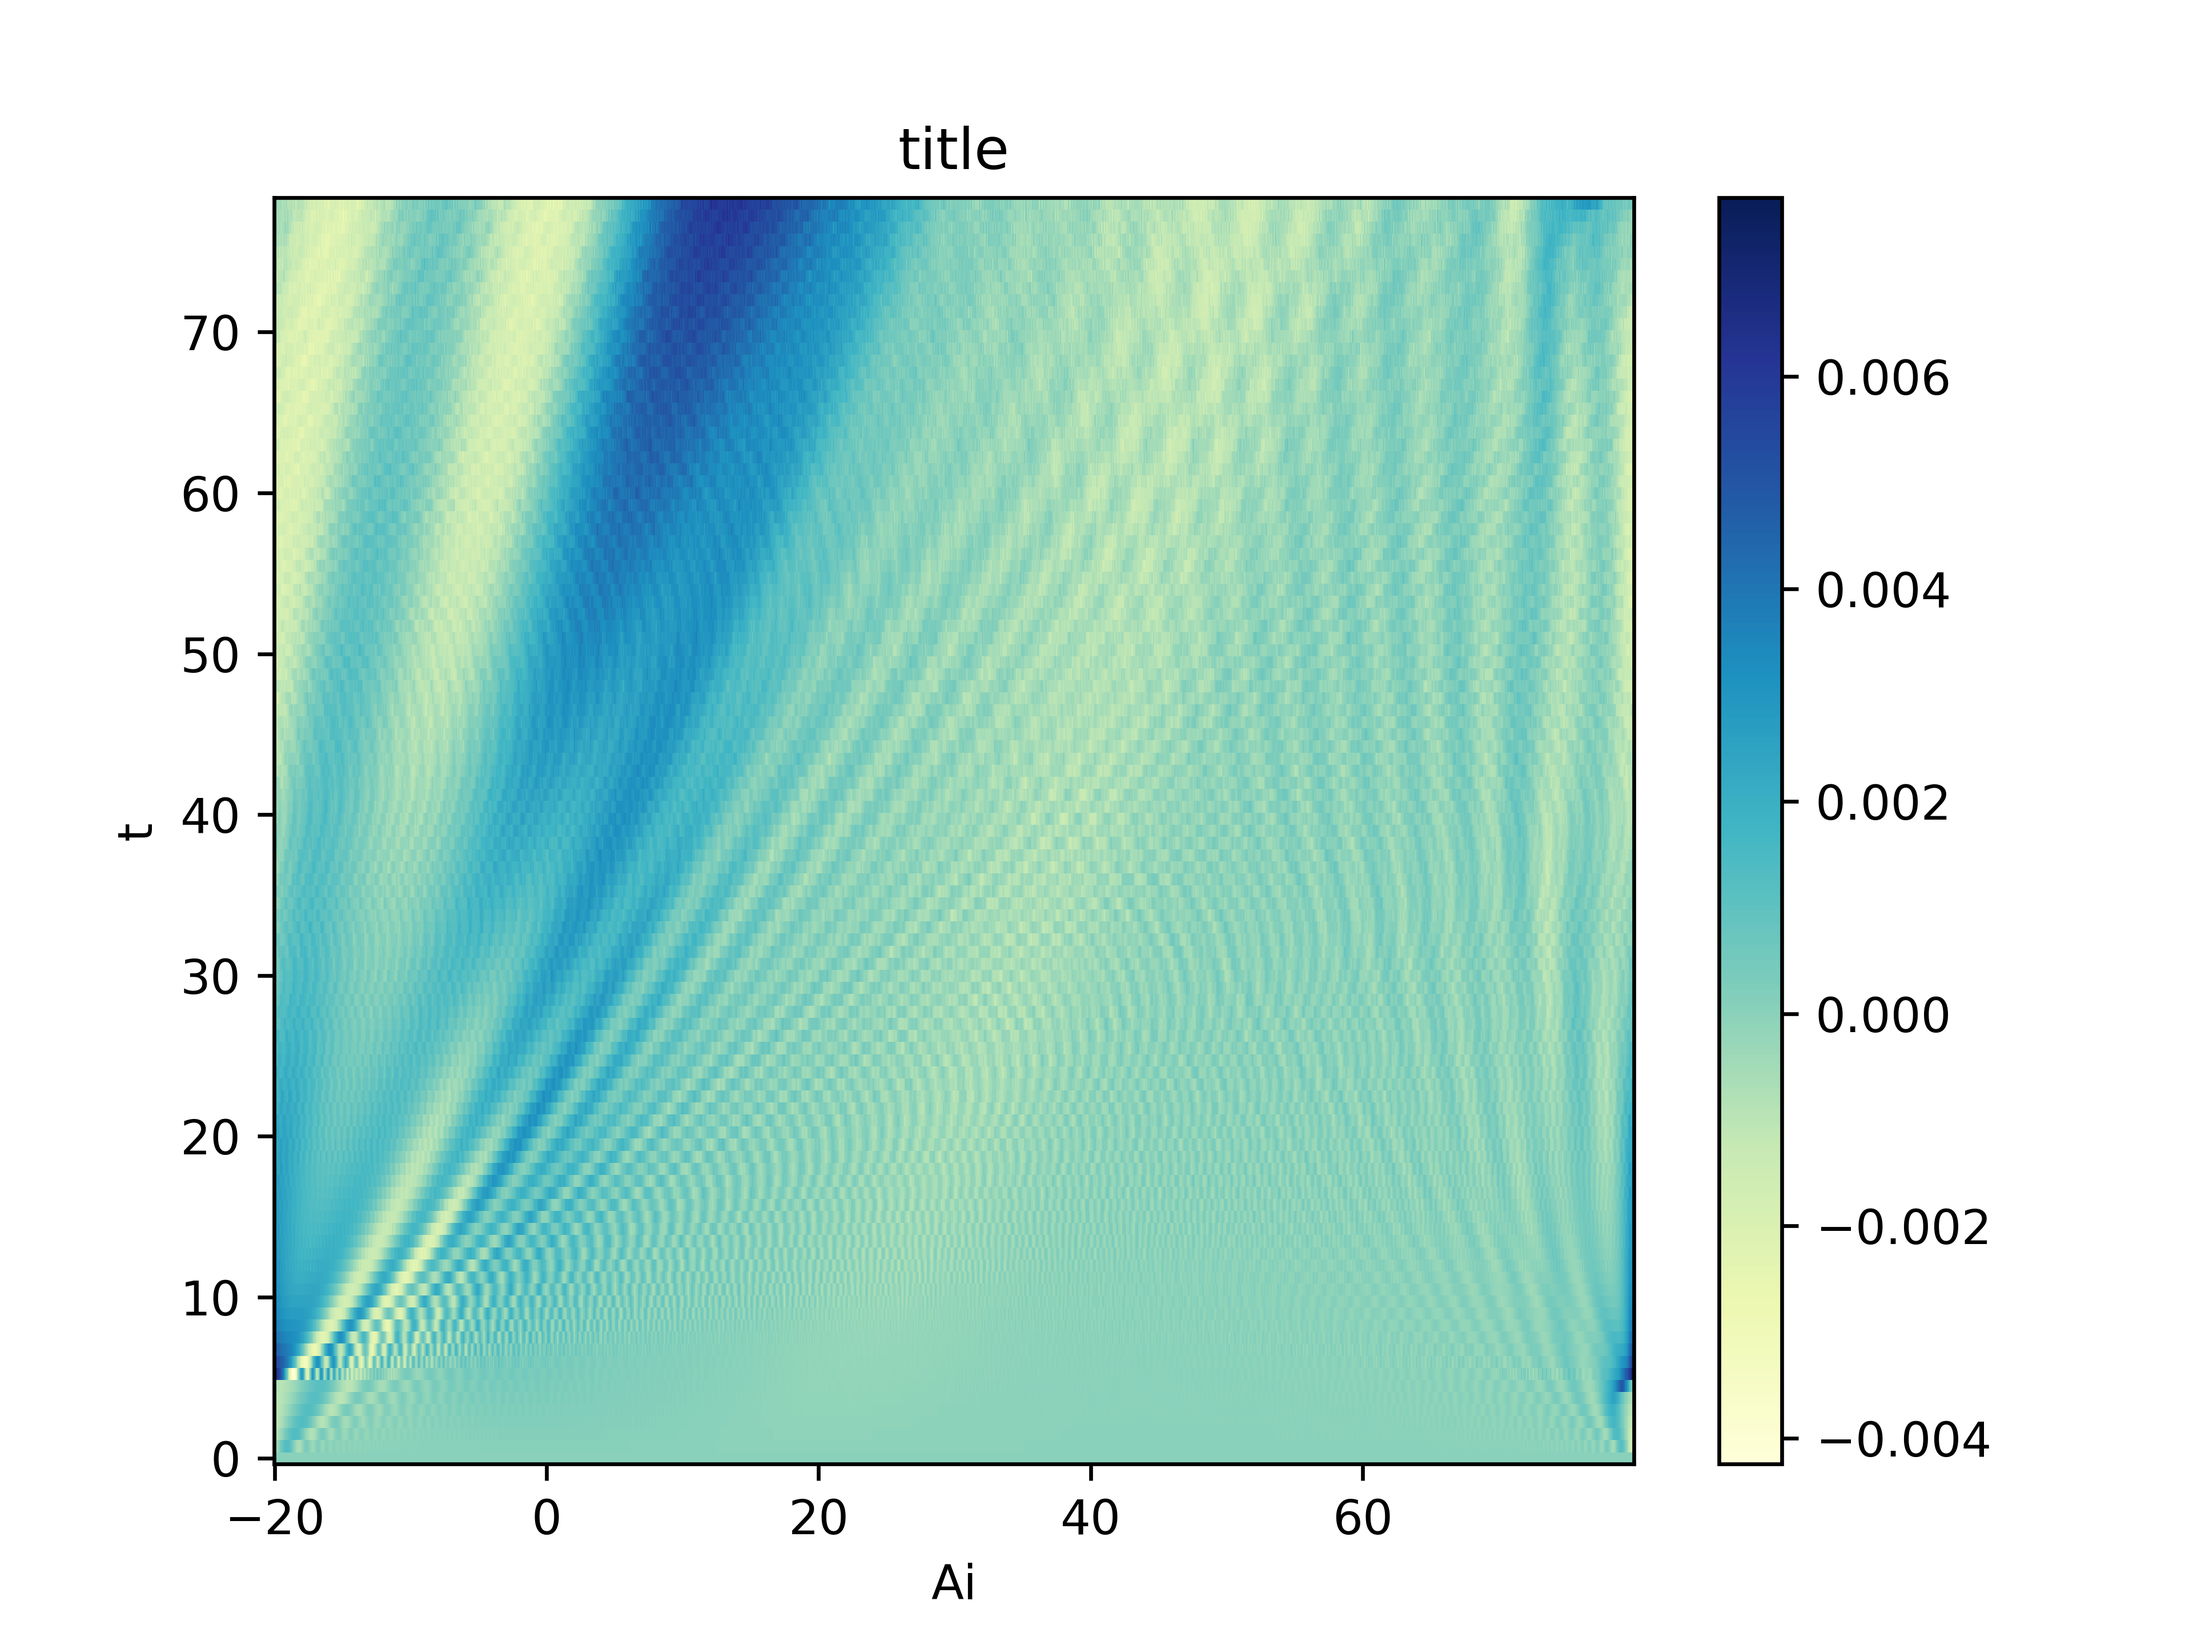
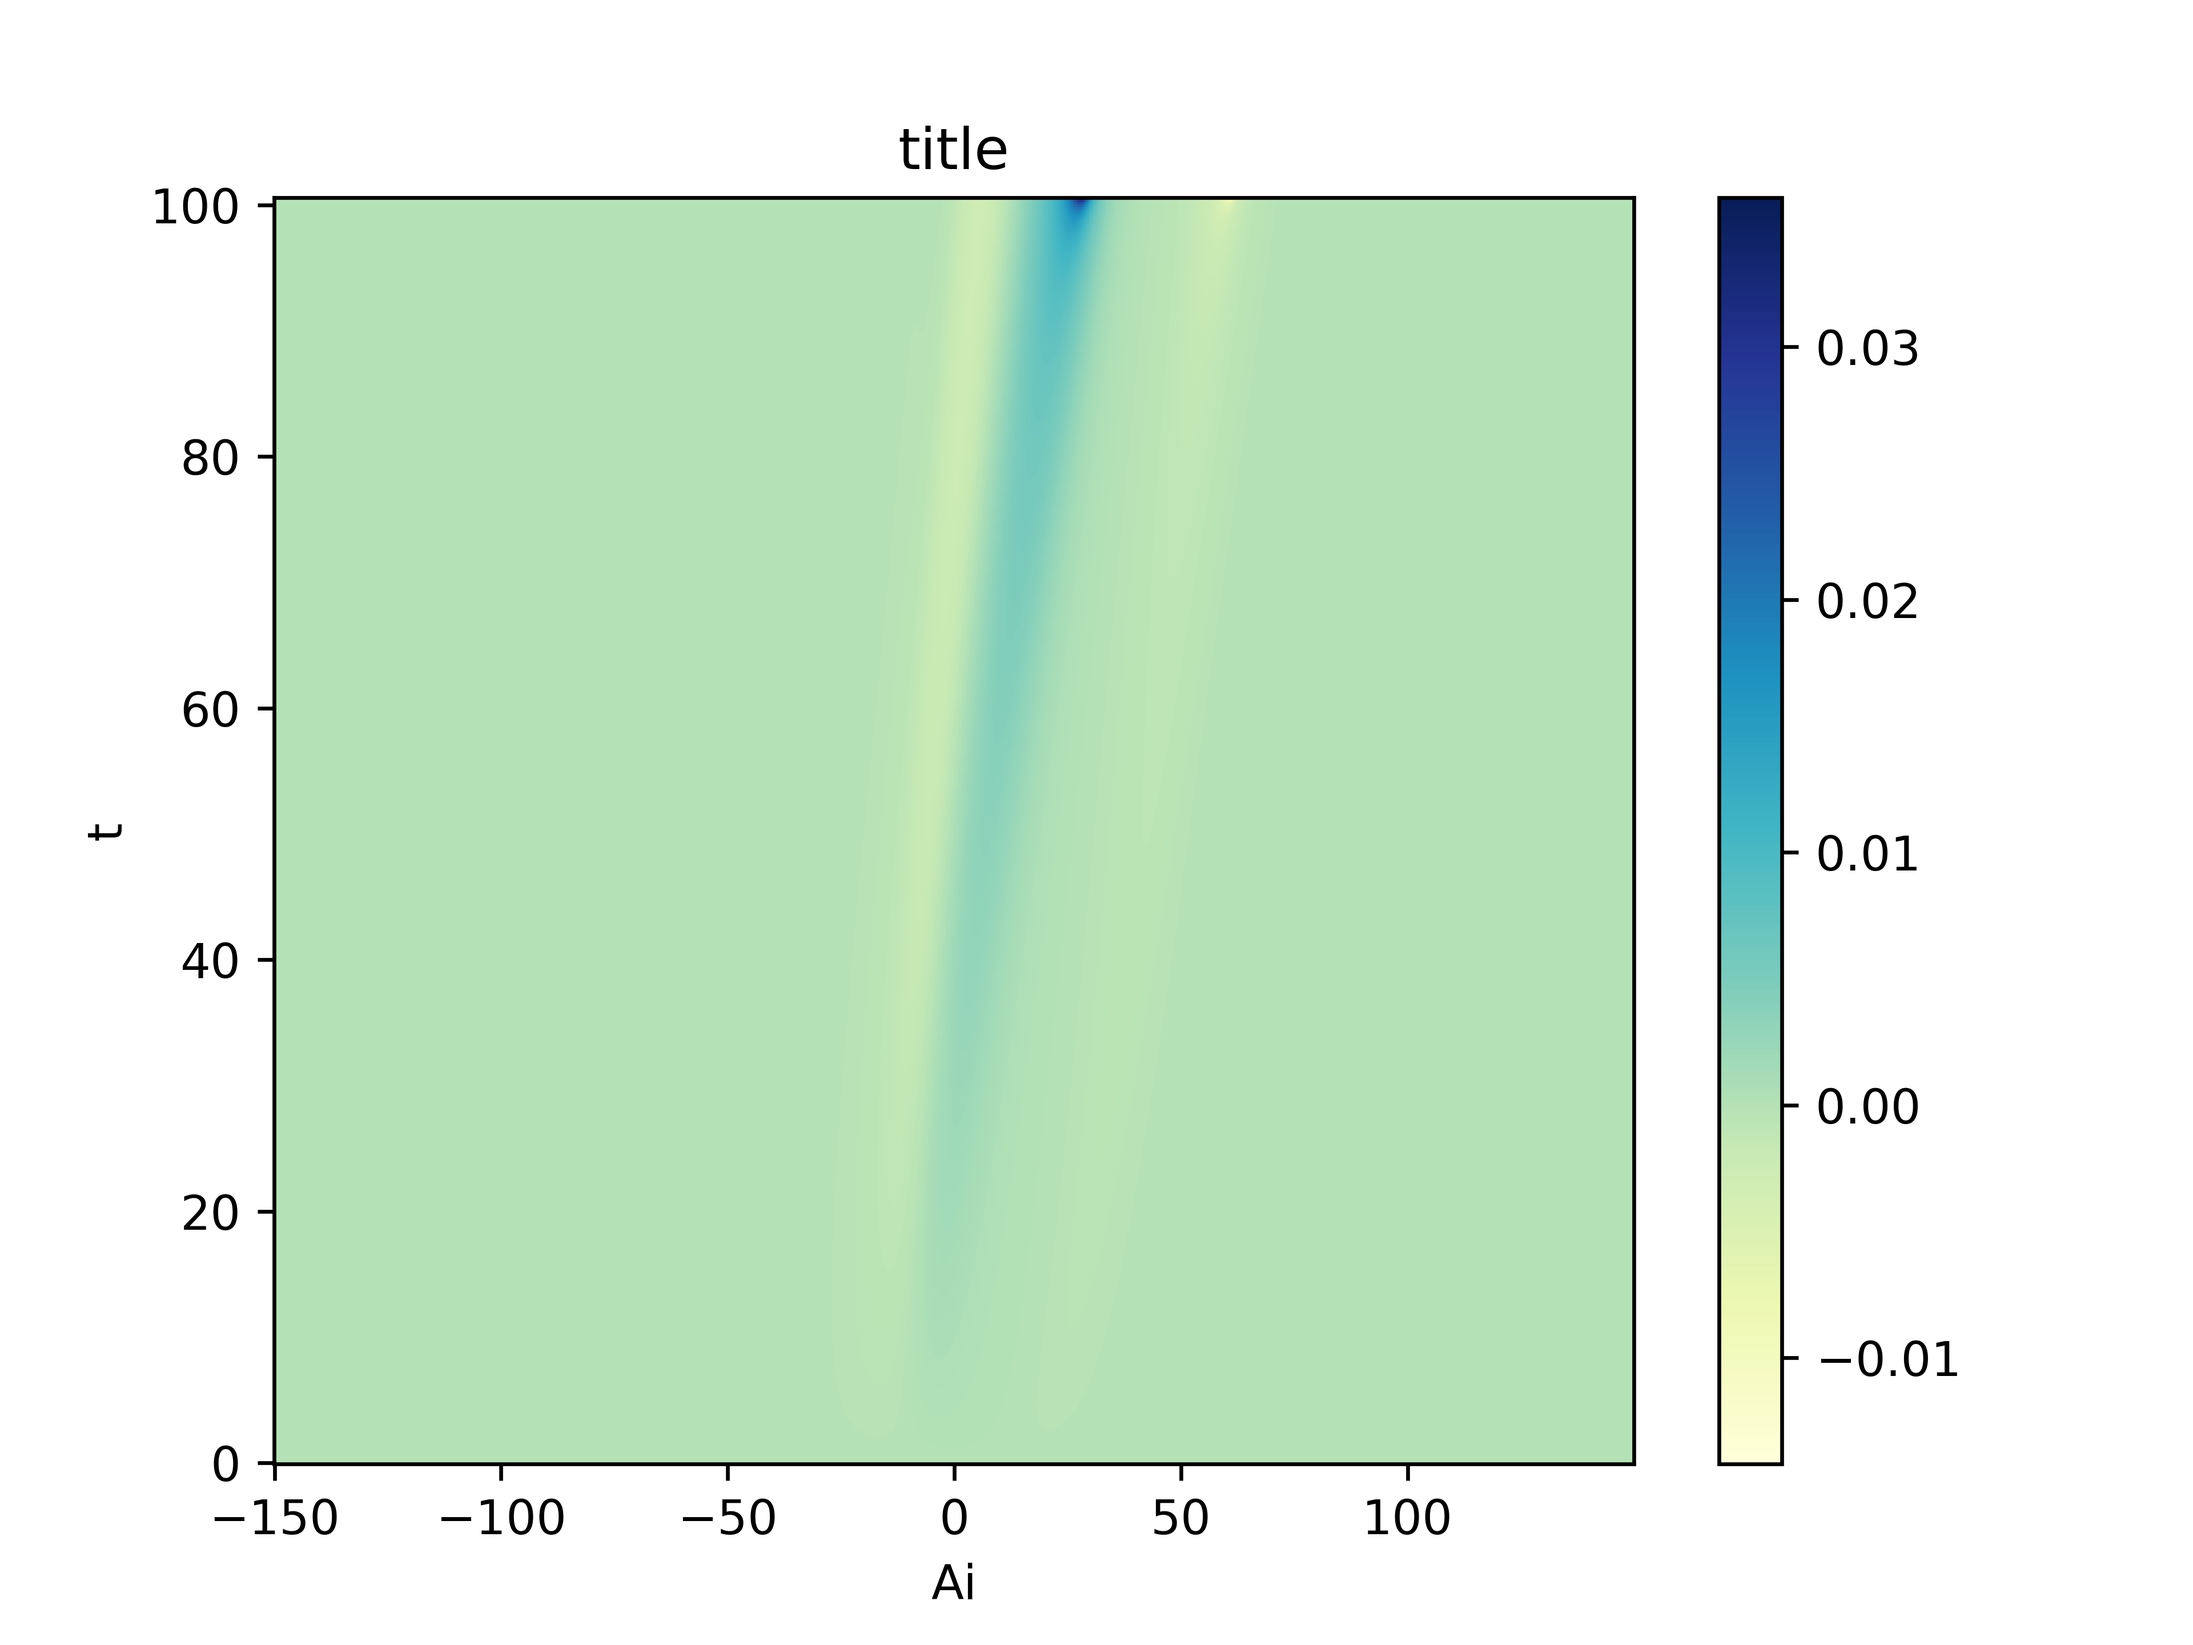
well I tried

diff --git a/dedalus_progs/sutherland/1d_nonlinear.py b/dedalus_progs/sutherland/1d_nonlinear.py
@@ -3,6 +3,7 @@ Eq. 26 from Sutherland et al 2011
 """
 
 import logging
+import pickle
 import numpy as np
 import matplotlib.pyplot as plt
 
@@ -12,14 +13,15 @@ from dedalus.extras.plot_tools import quad_mesh, pad_limits
 logger = logging.getLogger(__name__)
 K = 1
 N = 1
-# ZMIN = -150 / K
-# ZMAX = 150 / K
-ZMIN = -20 / K
-ZMAX = 80 / K
-N_Z = 1024
+ZMIN = -150 / K
+ZMAX = 150 / K
+# ZMIN = -20 / K
+# ZMAX = 80 / K
+# N_Z = 1024
+N_Z = 2048
 DX = (ZMAX - ZMIN) / N_Z
 # DT = 1e-4 / N
-DT = 2e-4 / N
+DT = 5e-5 / N
 
 m = -0.4 * K
 w = 0.93 * N
@@ -98,10 +100,10 @@ try:
     # Main loop
     while solver.ok:
         solver.step(DT)
-        if solver.iteration % round((T_F // DT) / 200) == 0:
+        if solver.iteration % round((T_F // DT) / 800) == 0:
             Ar.set_scales(1, keep_data=True)
             Ai.set_scales(1, keep_data=True)
-            print('Maxes:', max(Ar['g']), max(Ai['g']))
+            print('\tMaxes:', max(Ar['g']), max(Ai['g']))
             ar_list.append(np.copy(Ar['g']))
             ai_list.append(np.copy(Ai['g']))
             t_list.append(solver.sim_time)
@@ -112,6 +114,11 @@ try:
                 T_F,
                 DT
             )
+            pickle.dump({
+                'Ar': ar_list,
+                'Ai': ai_list,
+                't': t_list
+            }, open('dump.pkl', 'wb'))
 
 except Exception as e:
     print('Caught exception:', e, '\n\tTrying to plot')
